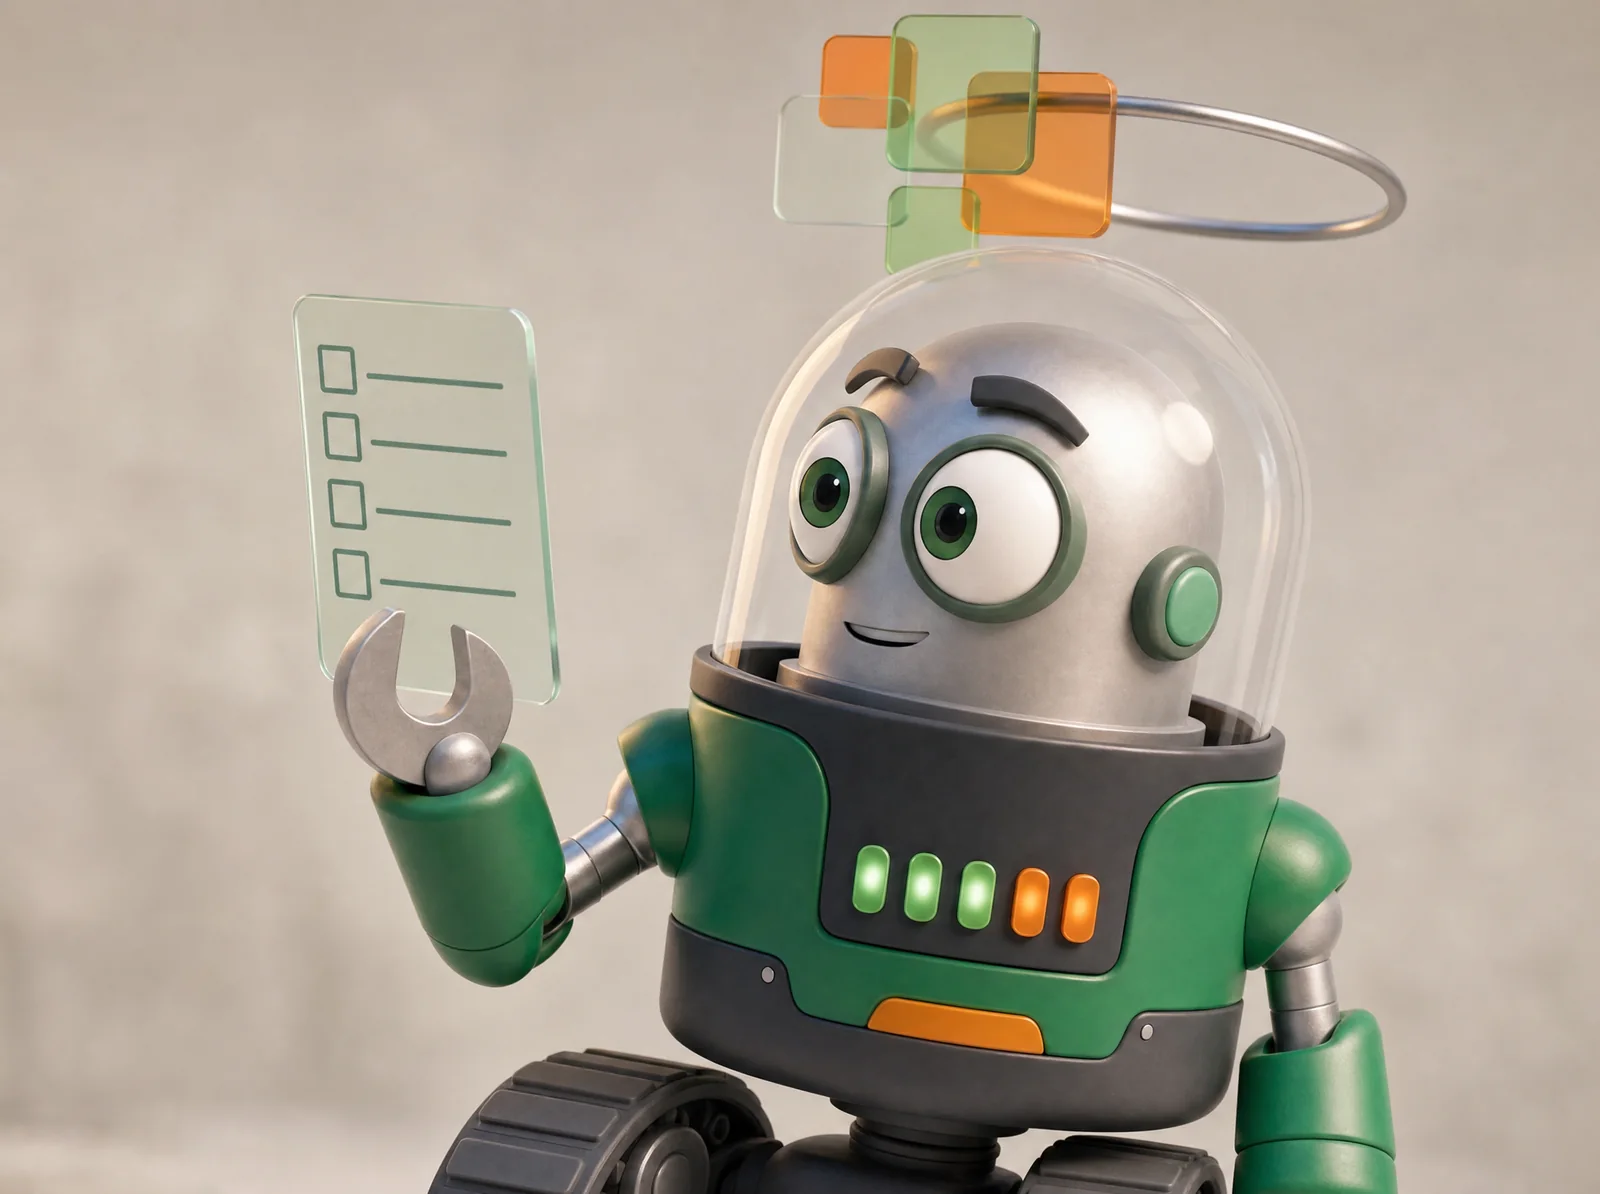
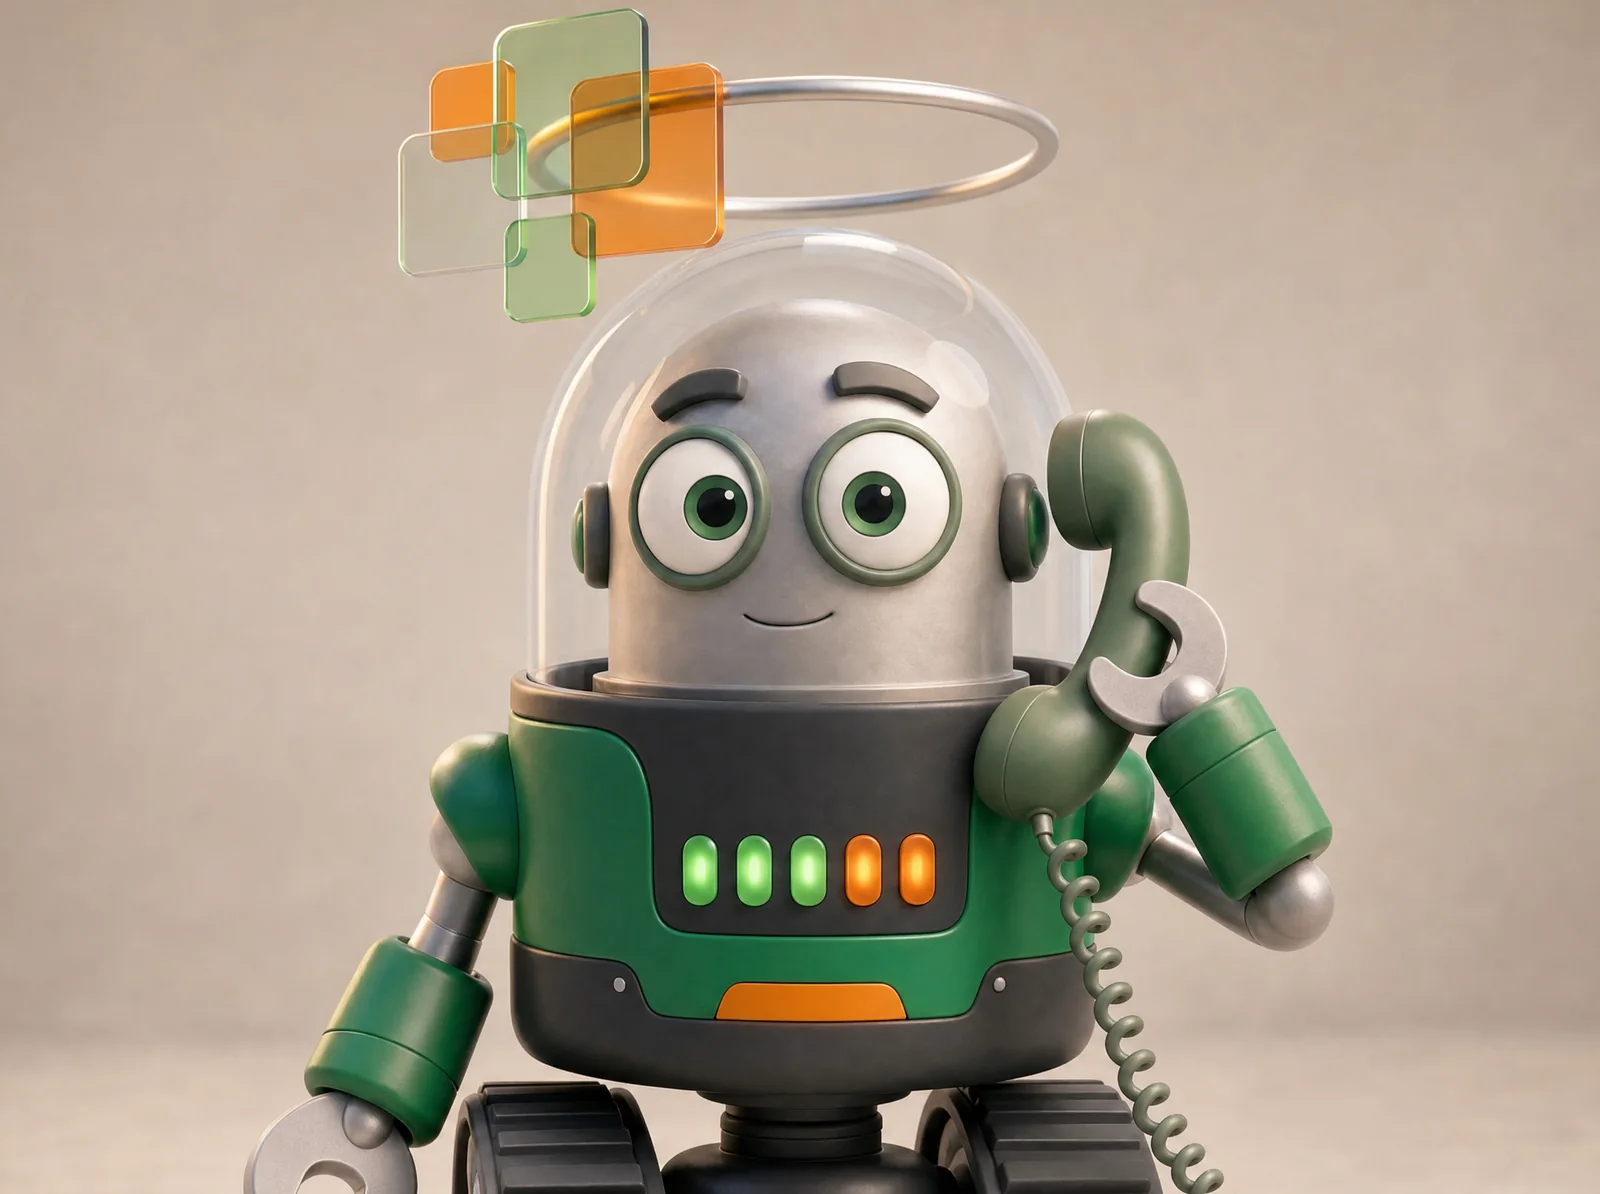
feat: action-specific INZO art for each How It Works step
Claude-Session: https://claude.ai/code/session_01Gn1DrYPXoLAps8FfSi6rQD

diff --git a/src/components/sections/HowItWorks.tsx b/src/components/sections/HowItWorks.tsx
@@ -9,7 +9,7 @@ import { ArrowRight, CheckCircle } from '@phosphor-icons/react';
 const steps = [
   {
     image: '/how-it-works/inzo-step-01.webp',
-    alt: 'INZO reviewing a checklist of your current setup',
+    alt: 'INZO on a phone call',
     step: '01',
     title: 'Get in Touch',
     description:
@@ -18,7 +18,7 @@ const steps = [
   },
   {
     image: '/how-it-works/inzo-step-02.webp',
-    alt: 'INZO comparing carrier options',
+    alt: 'INZO reviewing carrier pricing',
     step: '02',
     title: 'Get Recommendations',
     description:
@@ -27,7 +27,7 @@ const steps = [
   },
   {
     image: '/how-it-works/inzo-step-03.webp',
-    alt: 'INZO with a completed installation',
+    alt: 'INZO celebrating the savings',
     step: '03',
     title: 'Save Money',
     description:
